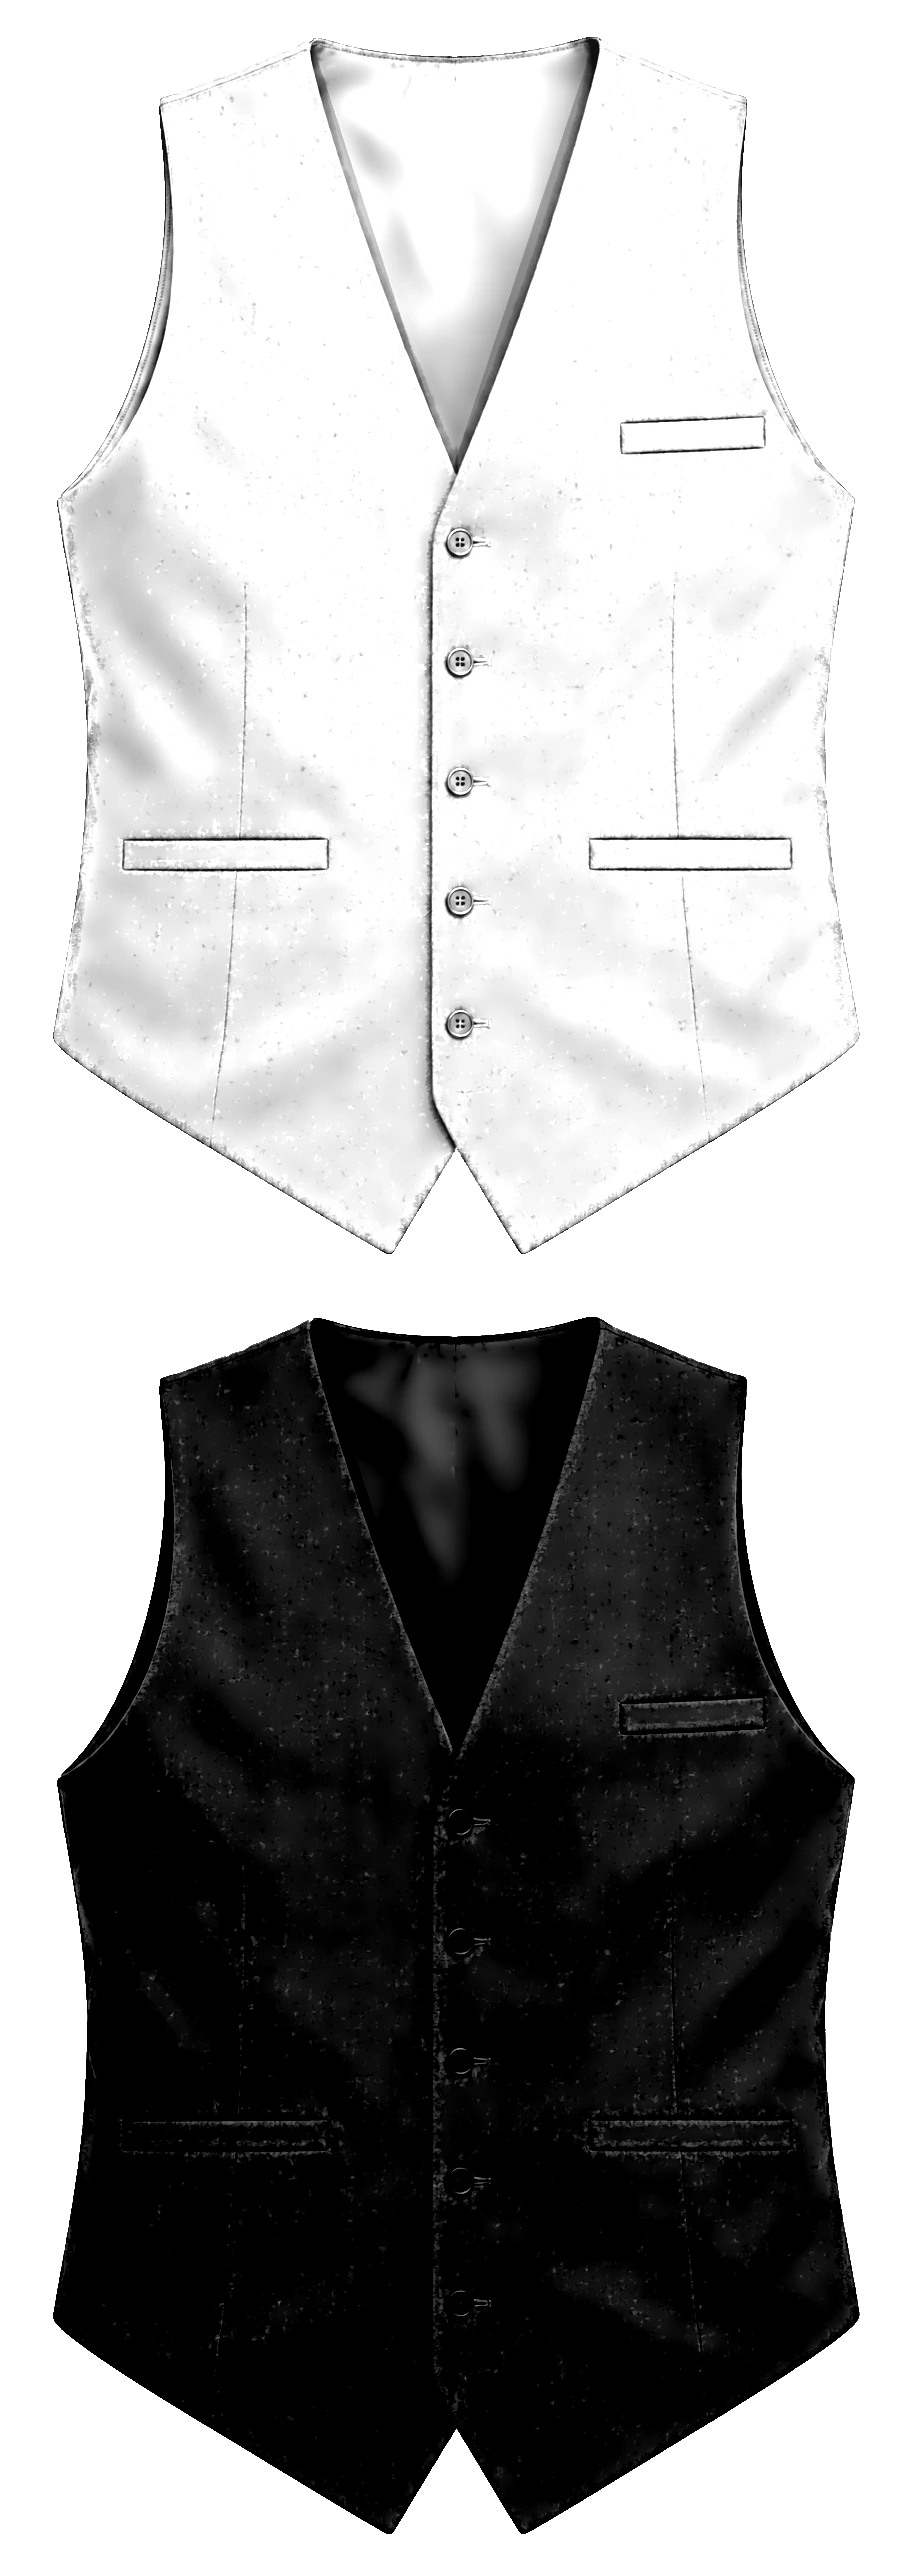
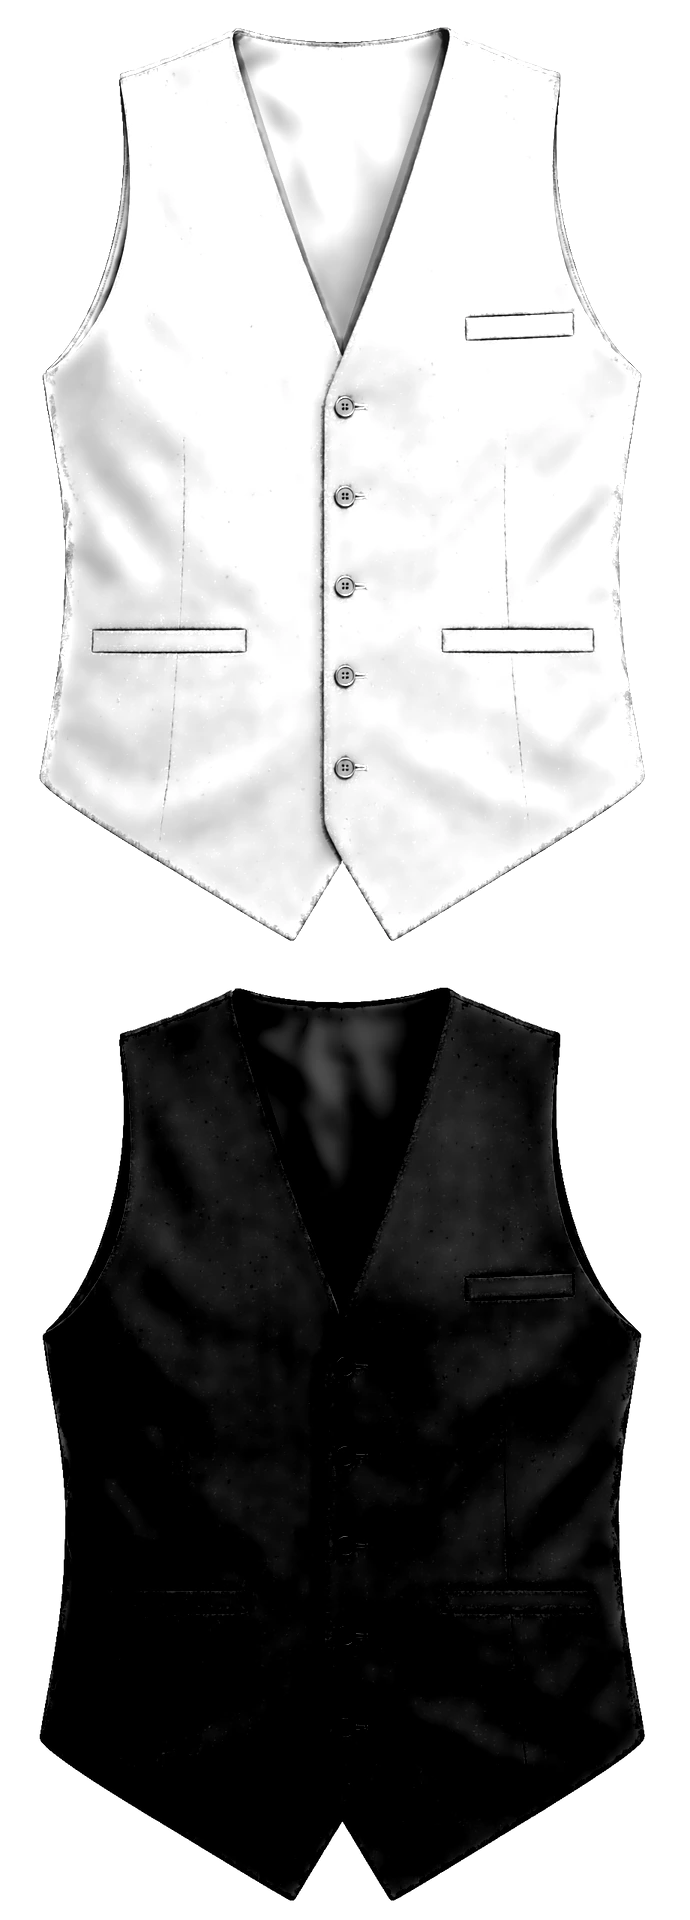
Suit picture: vest built from the reference photo (#709)
* Your Jacket picture: folded pants under the jacket for suits, own pictures for pants and vest

Full suit shows the pants folded flat under the jacket (classic look until
the pants are designed, then belt loops, back pocket and cuff follow the
picks). Three-piece adds a classic buttoned vest that only follows the
fabric. Pants Only and Vest Only get their own picture. The small picture
now also shows on the Pants and Vest pages.

Claude-Session: https://claude.ai/code/session_01Y2WUq5hqaJTnuw3wxrj3PD

* Your Jacket picture: clean back and inside views

Back and inside views stay inside a tidied outline: no wisps under the
sleeve ends, a smooth hem (vent lines no longer hang below it) and a
rounded neck with the collar running into the shoulder seams. No floating
shirt collar outline from behind. The pants band only gets a backdrop on
the front view, so back and inside have no box behind the pants.

Claude-Session: https://claude.ai/code/session_01Y2WUq5hqaJTnuw3wxrj3PD

* Your Jacket picture: back and inside views built from Daniel's reference photos

Back: scripts/make_jacket_photo_back.py turns the back reference into a base
photo (shirt collar and cuffs) and two cloth shadings (with the photo's side
vents, and with them painted out for no vent / centre vent). Sleeve buttons
are painted out and drawn from the customer's picks.
Inside: scripts/make_jacket_photo_inside.py does the same for the inside
[…]

diff --git a/jacket-studio.js b/jacket-studio.js
@@ -1373,7 +1373,121 @@
     out.fabric = f && !/^__same_as__/.test(f) && opt("fabric", f) ? f : v.fabric;
     return out;
   }
+  // The vest's pockets, drawn in the drawn vest's space (centre x 0, top y 0):
+  // lower pockets on both sides, chest pocket on the wearer's left (viewer's
+  // right) or both.
+  function vestPockets(g, va, st, db, vDepth, chest, lower) {
+    const dk = (a) => "rgba(0,0,0," + (a * st.a).toFixed(3) + ")";
+    const lt = (a) => "rgba(255,255,255," + (a * st.b).toFixed(3) + ")";
+    const welt = (x0, y0, len, slant, kind) => {
+      const a = slant ? -0.17 : 0;
+      g.save(); g.translate(x0, y0); g.rotate(a);
+      if (kind === "patch") {
+        g.save(); g.shadowColor = "rgba(0,0,0,0.35)"; g.shadowBlur = 3 * RES; g.shadowOffsetY = 1 * RES;
+        g.strokeStyle = dk(0.45); g.lineWidth = 1.1; g.strokeRect(0, 0, len, len * 0.62); g.restore();
+        g.save(); g.setLineDash([2, 2]); g.strokeStyle = dk(0.4); g.lineWidth = 0.8; g.strokeRect(2.5, 2.5, len - 5, len * 0.62 - 5); g.restore();
+      } else if (kind === "flap") {
+        g.fillStyle = dk(0.12); g.fillRect(0, 0, len, 13);
+        g.strokeStyle = dk(0.55); g.lineWidth = 1.1; g.strokeRect(0, 0, len, 13);
+        g.fillStyle = lt(0.08); g.fillRect(0, 0, len, 2);
+      } else if (kind === "besom") {
+        g.fillStyle = "rgba(0,0,0,0.65)"; g.fillRect(0, -0.8, len, 1.6);
+        g.strokeStyle = dk(0.35); g.lineWidth = 0.8; g.strokeRect(0, -3.5, len, 7);
+      } else {
+        const h = kind === "narrow" ? 6 : 10;
+        g.fillStyle = lt(0.04); g.fillRect(0, -h, len, h);
+        g.strokeStyle = dk(0.55); g.lineWidth = 1.1; g.strokeRect(0, -h, len, h);
+        g.fillStyle = "rgba(0,0,0,0.55)"; g.fillRect(0, -h - 0.6, len, 1.2);
+      }
+      g.restore();
+    };
+    const kindOf = (name) => /Patch/.test(name) ? "patch" : /Flap/.test(name) ? "flap" : /Besom/.test(name) ? "besom" : /Narrow/.test(name) ? "narrow" : "welt";
+    const lp = String(va.lowerpocket || "");
+    if (lower && lp && !/^No /.test(lp)) {
+      const sl = /Slant/.test(lp), k = kindOf(lp);
+      welt(-96, 212, 58, sl, k);
+      welt(38 + (db ? 6 : 0), 212 + (sl ? 10 : 0), 58, sl, k);
+      if (sl) { /* the right one leans the same way */ }
+    }
+    const cp = String(va.chestpocket || "");
+    if (chest && cp && !/^No /.test(cp)) {
+      const k = kindOf(cp);
+      const y = Math.max(vDepth * 0.55, 70) + 34;
+      welt(54, y, 40, false, k);
+      if (/^Both/.test(cp)) welt(-94, y, 40, false, k);
+    }
+  }
+  // The vest is built from Daniel's reference photo (2026-11-22: five
+  // buttons, V-neck, pointed bottom, a chest welt and two lower welts, the
+  // back lining in the neck), like the folded pants: the photo's light and
+  // shadow filled with the chosen fabric (scripts/make_folded_pieces.py).
+  // Piece space VEST_W x VEST_PH; the vest's centre is x 114, its top y 9.5.
+  const VEST_W = 230, VEST_PH = 320;
+  const VEST_SHADE = "./assets/suit-vest-shade.webp?v=1";
+  // The same with the three pockets painted out, for other pocket picks.
+  const VEST_SHADE_PLAIN = "./assets/suit-vest-shade-plain.webp?v=1";
+  const VEST_LINING = "M77.8,7.5 L148.8,7.5 L148.8,9.2 L112.8,118 L77.8,9.8 Z";
+  const VEST_CHEST_BOX = [152, 101.5, 42, 15], VEST_LOWER_BOXES = [[27.8, 206.5, 57.4, 13.5], [144.2, 206.5, 56.8, 13.5]];
+  // A three-piece's vest is always the photo's (only the fabric changes);
+  // Vest Only follows the picks: the photo while the shape matches it, the
+  // drawn vest for any other front, neck or bottom.
   function drawVest(g, v, cx, oy, s, fixed) {
+    const va = vestAnswers(v, fixed);
+    const fb = String(va.frontbutton || "");
+    const asPhoto = fixed || (!/^Double/.test(fb) && /5/.test(fb) && String(va.bottom) === "Pointed" && String(va.collar) === "V-Neck");
+    if (!asPhoto) return drawVestDrawn(g, v, cx, oy, s, fixed);
+    const fab = opt("fabric", va.fabric) || opt("fabric", PREVIEW_DEFAULTS.fabric);
+    const fp = fabricPaint(fab);
+    const classic = img(VEST_SHADE), plain = img(VEST_SHADE_PLAIN);
+    if (!fp.ready || !classic || !plain) return false;
+    const hex = fp.hex, st = fp.strength;
+    const k = s * RES;
+    const W = Math.round(VEST_W * k), H = Math.round(VEST_PH * k);
+    const pc = mk(W, H);
+    const c = pc.getContext("2d");
+    const chestPhoto = String(va.chestpocket) === "Left Welt", lowerPhoto = String(va.lowerpocket) === "Welt";
+    if (chestPhoto && lowerPhoto) c.drawImage(litPiece(classic, fp, W, H), 0, 0);
+    else {
+      c.drawImage(litPiece(plain, fp, W, H), 0, 0);
+      const full = litPiece(classic, fp, W, H);
+      const keep = (b) => {
+        const x0 = Math.round(b[0] * k), y0 = Math.round(b[1] * k), w = Math.round(b[2] * k), h = Math.round(b[3] * k);
+        c.clearRect(x0, y0, w, h);
+        c.drawImage(full, x0, y0, w, h, x0, y0, w, h);
+      };
+      if (chestPhoto) keep(VEST_CHEST_BOX);
+      if (lowerPhoto) VEST_LOWER_BOXES.forEach(keep);
+    }
+    // The back lining seen in the neck: a satin a shade off the cloth.
+    const linHex = mix(lum(hex) < 70 ? mix(hex, "#ffffff", 0.08) : mix(hex, "#000000", 0.25), "#000000", 0.18);
+    const lin = litPiece(classic, { key: "vl:" + linHex, hex: linHex, strength: { a: 0.75, b: 0.4 }, size: 0 }, W, H);
+    c.save();
+    c.scale(k, k); c.clip(new Path2D(VEST_LINING)); c.setTransform(1, 0, 0, 1, 0, 0);
+    c.globalCompositeOperation = "source-atop";
+    c.drawImage(lin, 0, 0);
+    c.restore();
+    // Other pocket picks, drawn on the cloth where the photo's were.
+    c.scale(k, k);
+    c.globalCompositeOperation = "source-atop";
+    if (!chestPhoto || !lowerPhoto) {
+      c.save();
+      c.translate(114, 9.5); c.scale(0.85, 1);
+      vestPockets(c, va, st, false, 114, !chestPhoto, !lowerPhoto);
+      c.restore();
+    }
+    // Pick stitching along the neck and the front edge.
+    if (/^Pick/.test(String(va.pickStitch || ""))) {
+      const lt = "rgba(255,255,255," + (0.35 * st.b).toFixed(3) + ")";
+      line(c, [[74.9, 10.7], [110, 119], [110, 286]], lt, 0.9, [1.6, 3]);
+      line(c, [[155.2, 11.4], [119.6, 119]], lt, 0.9, [1.6, 3]);
+    }
+    g.save();
+    g.shadowColor = "rgba(0,0,0,0.3)"; g.shadowBlur = 12 * s * RES; g.shadowOffsetY = 5 * s * RES;
+    g.drawImage(pc, cx - 114 * s, oy - 9.5 * s, VEST_W * s, VEST_PH * s);
+    g.restore();
+    return true;
+  }
+  function drawVestDrawn(g, v, cx, oy, s, fixed) {
     const va = vestAnswers(v, fixed);
     const fab = opt("fabric", va.fabric) || opt("fabric", PREVIEW_DEFAULTS.fabric);
     const fp = fabricPaint(fab);
@@ -1484,45 +1598,7 @@
     }
     // Darts.
     [-1, 1].forEach((sx) => line(g, [[sx * 64, 150], [sx * 66, 200], [sx * 64, 246]], dk(0.28), 1));
-    // Pockets: lower pockets on both sides, chest pocket on the wearer's left
-    // (viewer's right) or both.
-    const welt = (x0, y0, len, slant, kind) => {
-      const a = slant ? -0.17 : 0;
-      g.save(); g.translate(x0, y0); g.rotate(a);
-      if (kind === "patch") {
-        g.save(); g.shadowColor = "rgba(0,0,0,0.35)"; g.shadowBlur = 3 * RES; g.shadowOffsetY = 1 * RES;
-        g.strokeStyle = dk(0.45); g.lineWidth = 1.1; g.strokeRect(0, 0, len, len * 0.62); g.restore();
-        g.save(); g.setLineDash([2, 2]); g.strokeStyle = dk(0.4); g.lineWidth = 0.8; g.strokeRect(2.5, 2.5, len - 5, len * 0.62 - 5); g.restore();
-      } else if (kind === "flap") {
-        g.fillStyle = dk(0.12); g.fillRect(0, 0, len, 13);
-        g.strokeStyle = dk(0.55); g.lineWidth = 1.1; g.strokeRect(0, 0, len, 13);
-        g.fillStyle = lt(0.08); g.fillRect(0, 0, len, 2);
-      } else if (kind === "besom") {
-        g.fillStyle = "rgba(0,0,0,0.65)"; g.fillRect(0, -0.8, len, 1.6);
-        g.strokeStyle = dk(0.35); g.lineWidth = 0.8; g.strokeRect(0, -3.5, len, 7);
-      } else {
-        const h = kind === "narrow" ? 6 : 10;
-        g.fillStyle = lt(0.04); g.fillRect(0, -h, len, h);
-        g.strokeStyle = dk(0.55); g.lineWidth = 1.1; g.strokeRect(0, -h, len, h);
-        g.fillStyle = "rgba(0,0,0,0.55)"; g.fillRect(0, -h - 0.6, len, 1.2);
-      }
-      g.restore();
-    };
-    const kindOf = (name) => /Patch/.test(name) ? "patch" : /Flap/.test(name) ? "flap" : /Besom/.test(name) ? "besom" : /Narrow/.test(name) ? "narrow" : "welt";
-    const lp = String(va.lowerpocket || "");
-    if (lp && !/^No /.test(lp)) {
-      const sl = /Slant/.test(lp), k = kindOf(lp);
-      welt(-96, 212, 58, sl, k);
-      welt(38 + (db ? 6 : 0), 212 + (sl ? 10 : 0), 58, sl, k);
-      if (sl) { /* the right one leans the same way */ }
-    }
-    const cp = String(va.chestpocket || "");
-    if (cp && !/^No /.test(cp)) {
-      const k = kindOf(cp);
-      const y = Math.max(vDepth * 0.55, 70) + 34;
-      welt(54, y, 40, false, k);
-      if (/^Both/.test(cp)) welt(-94, y, 40, false, k);
-    }
+    vestPockets(g, va, st, db, vDepth, true, true);
     // Buttons and buttonholes.
     const btnHex = lum(hex) > 150 ? mix(hex, "#3b2f26", 0.55) : mix(hex, "#161210", 0.6);
     const button = (x, y) => {

diff --git a/index.html b/index.html
@@ -1360,7 +1360,7 @@
 <!-- Your Jacket peek: a small read-only picture of the jacket beside the
      Jacket questions; tap to see it big (Daniel, 2026-11-19). The old
      clickable "Interactive Jacket" mode is no longer offered. -->
-<script src="./jacket-studio.js?v=20261122pantsphoto"></script>
+<script src="./jacket-studio.js?v=20261122vestphoto"></script>
 
 </body>
 </html>

diff --git a/scripts/make_folded_pieces.py b/scripts/make_folded_pieces.py
@@ -85,7 +85,7 @@ def cloth_alpha(L, thresh=104):
     return np.clip(np.where(bg > 0.5, 0, np.where(near > 0.5, edge, 1)), 0, 1)
 
 
-def shade_map(L, alpha, ref, detail=1.7):
+def shade_map(L, alpha, ref, detail=1.7, grain=1.5, fine=0.6, calm_light=False):
     """Brightness against the cloth's own level; edge pixels take the cloth's
     brightness beside them, not the mix with the backdrop."""
     Lmin = np.asarray(Image.fromarray(np.clip(L, 0, 255).astype(np.uint8)).filter(ImageFilter.MinFilter(5))).astype(np.float32)
@@ -94,15 +94,20 @@ def shade_map(L, alpha, ref, detail=1.7):
     # folds, seams and edges stay: fine detail is kept only where it is
     # stronger than the grain.
     base = blur(Le, 6.0)
-    d = blur(Le, 0.6) - base
+    d = blur(Le, fine) - base
     inside = alpha > 0.99
-    t = 1.5 * float(np.median(np.abs(d[inside]))) / 0.6745
+    t = grain * float(np.median(np.abs(d[inside]))) / 0.6745
     # A seam or an edge is strong along its whole run; grain is not.
     run = blur(np.abs(d), 1.6)
     keep = np.clip((run - t * 0.55) / (t * 0.55), 0, 1)
     # The photo is dark cloth with tone-on-tone details: they are deepened so
     # they still read on any fabric.
-    Ls = base + d * keep * detail
+    if calm_light:
+        # Only the dark details are deepened; light ones (stray pale fibres,
+        # the glow beside a seam) are left as they are, less the grain.
+        Ls = base + np.minimum(d, 0) * keep * detail + np.maximum(np.maximum(d, 0) - 0.8 * t, 0)
+    else:
+        Ls = base + d * keep * detail
     r = np.maximum(Ls, 1) / ref
     return np.where(r < 1, 1 - (1 - r) * 0.95, r)
 
@@ -163,7 +168,7 @@ print('PANTS hem', P(1097, 668), P(927, 883), 'leg edges run', (0.838, 0.547), (
 src = Image.open(os.path.join(ROOT, 'assets', 'vest-reference-photo.png')).convert('RGB')
 L = np.asarray(src).astype(np.float32).mean(2)
 BOX = (60, 120, 980, 1400); S = 0.25          # 230 x 320 picture units
-OUT = (920, 1280)                             # the photo's own size (4x)
+OUT = (690, 960)                              # 3x (scaled down, as the pants are, which evens out the grain)
 alpha = cloth_alpha(L)
 LINING = [(371, 150), (655, 150), (655, 157), (511, 592), (371, 159)]
 m = Image.new('L', (L.shape[1] * 2, L.shape[0] * 2), 0)
@@ -174,10 +179,11 @@ ref_l = float(np.median(L[(alpha > 0.99) & (lin > 0.99)]))
 ref = ref_c * (1 - lin) + ref_l * lin
 CHEST = (672, 530, 832, 582)
 LOWER = [(175, 950, 397, 996), (641, 950, 860, 996)]
-save('suit-vest-shade.webp', shade_map(L, alpha, ref), alpha, BOX, OUT)
+VEST_MAP = dict(grain=2.0, calm_light=True)
+save('suit-vest-shade.webp', shade_map(L, alpha, ref, **VEST_MAP), alpha, BOX, OUT)
 Lp = L.copy()
 for r in [CHEST] + LOWER: Lp = inpaint_rect(Lp, r)
-save('suit-vest-shade-plain.webp', shade_map(Lp, alpha, ref), alpha, BOX, OUT)
+save('suit-vest-shade-plain.webp', shade_map(Lp, alpha, ref, **VEST_MAP), alpha, BOX, OUT)
 P = local(BOX, S)
 print('VEST size', [230, 320], 'Lref cloth %.1f lining %.1f' % (ref_c, ref_l))
 print('VEST lining', 'M' + ' L'.join('%g,%g' % P(x, y) for x, y in LINING) + ' Z')
